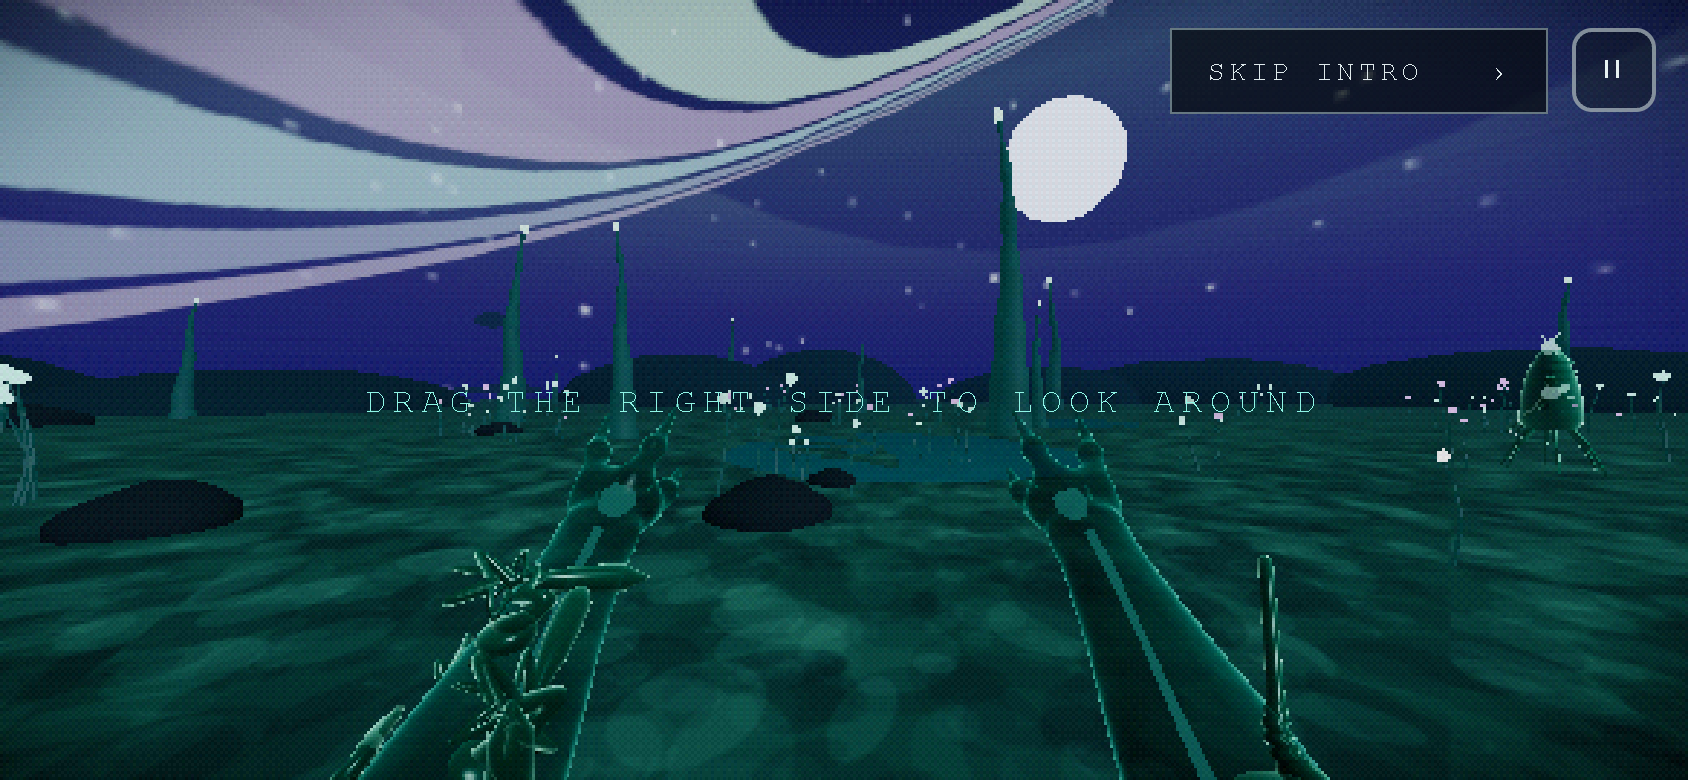
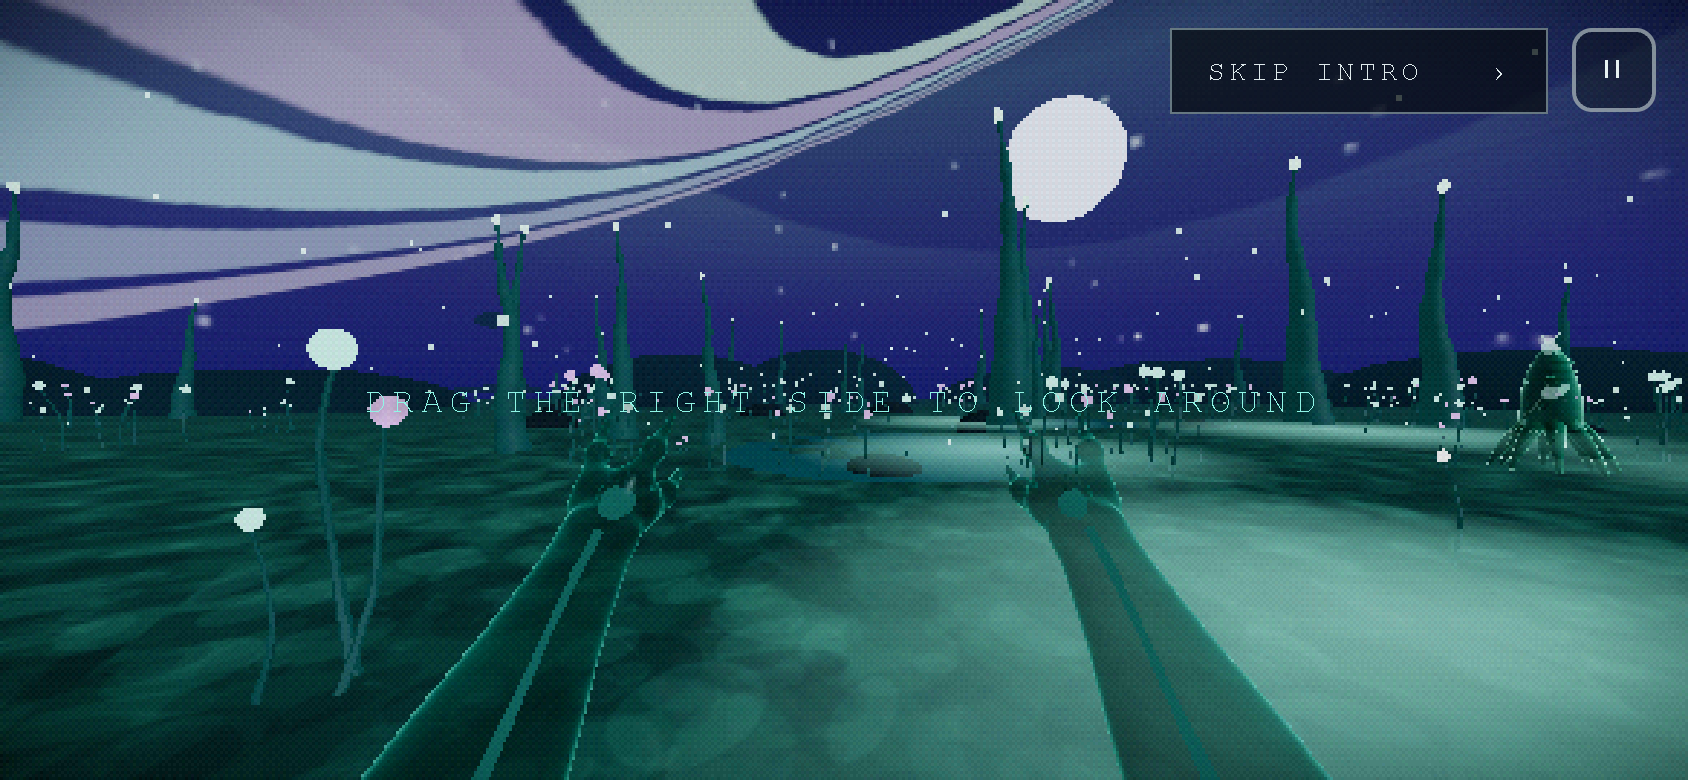
Body tentacles: curled tips, wider front legs
Claude-Session: https://claude.ai/code/session_0125okziJk41e5bhYFvgq7WQ

diff --git a/src/game/body.js b/src/game/body.js
@@ -4,8 +4,8 @@ import { makeGel } from '../world/materials.js';
 import { TentacleMesh, makeTentacleGel, updateTentacleGels, bezier, SpringChain } from '../presentation/tentacle.js';
 
 const LEGS = [ // angle from forward (rad), reach (m), gait group: short, slim legs so the body never fills the view
-  { a: -0.66, reach: 1.45, g: 0 }, { a: 0.66, reach: 1.45, g: 1 },
-  { a: -1.57, reach: 1.15, g: 1 }, { a: 1.57, reach: 1.15, g: 0 },
+  { a: -1.0, reach: 1.1, g: 0 }, { a: 1.0, reach: 1.1, g: 1 },
+  { a: -1.75, reach: 1.15, g: 1 }, { a: 1.75, reach: 1.15, g: 0 },
   { a: -2.55, reach: 1.2, g: 0 }, { a: 2.55, reach: 1.2, g: 1 },
 ];
 const N = 10;
@@ -50,7 +50,7 @@ export class AlienBody {
         chain: new SpringChain(N, 360, 90, 0.8),
         ideal: Array.from({ length: N }, () => new THREE.Vector3()),
         c1: new THREE.Vector3(), c2: new THREE.Vector3(), root: new THREE.Vector3(),
-        mesh: new TentacleMesh({ rings: 28, radial: 14, radius: (t) => lerp(0.085, 0.022, Math.pow(t, 0.8)) * (1 + 0.12 * Math.sin(t * 9)), material: this.legGel }),
+        mesh: new TentacleMesh({ rings: 28, radial: 14, radius: (t) => lerp(0.085, 0.03, Math.pow(t, 0.8)) * (1 + 0.12 * Math.sin(t * 9) + 0.35 * Math.max(0, (t - 0.82) / 0.18) * (1 - Math.max(0, (t - 0.96) / 0.04))), material: this.legGel }),
       };
       leg.mesh.mesh.renderOrder = 2;
       scene.add(leg.mesh.mesh);
@@ -138,14 +138,16 @@ export class AlienBody {
       const lift = Math.max(0, leg.foot.y - (this.world.groundHeight(leg.foot.x, leg.foot.z, p.pos.y + 0.4, 0.2)));
       leg.c1.set(leg.root.x + ox * hd * 0.35, leg.root.y + 0.28 + hd * 0.14, leg.root.z + oz * hd * 0.35);
       leg.c2.set(leg.foot.x - ox * hd * 0.2, leg.foot.y + 0.3 + hd * 0.1 + lift * 0.5, leg.foot.z - oz * hd * 0.2);
-      for (let i = 0; i < N; i++) bezier(leg.root, leg.c1, leg.c2, leg.foot, i / (N - 1), leg.ideal[i]);
-      for (let i = 1; i < N - 1; i++) {
-        const w = i / (N - 1), amp = 0.02 * Math.sin(w * Math.PI) * (1 + Math.min(1, speed));
+      const PL = N - 3;                                   // the leg plants here; the last joints curl up and forward like an octopus arm tip
+      for (let i = 0; i <= PL; i++) bezier(leg.root, leg.c1, leg.c2, leg.foot, i / PL, leg.ideal[i]);
+      for (let i = PL + 1; i < N; i++) { const k = (i - PL) / (N - 1 - PL); leg.ideal[i].set(leg.foot.x + ox * 0.1 * k, leg.foot.y + 0.02 + 0.13 * k * k + 0.03 * Math.sin(t * 2 + leg.d.a), leg.foot.z + oz * 0.1 * k); }
+      for (let i = 1; i < PL; i++) {
+        const w = i / PL, amp = 0.03 * Math.sin(w * Math.PI) * (1 + Math.min(1, speed));
         leg.ideal[i].x += Math.sin(t * 2.0 + leg.d.a * 4 - w * 5) * amp;
         leg.ideal[i].y += Math.sin(t * 1.7 + leg.d.a * 3 - w * 4) * amp;
       }
       leg.chain.step(leg.ideal, dt);
-      leg.chain.p[N - 1].copy(leg.foot); // tip stays planted exactly
+      leg.chain.p[PL].copy(leg.foot); // the plant point stays put exactly
       leg.mesh.update(leg.chain.p);
     }
     updateTentacleGels(t, 0);
